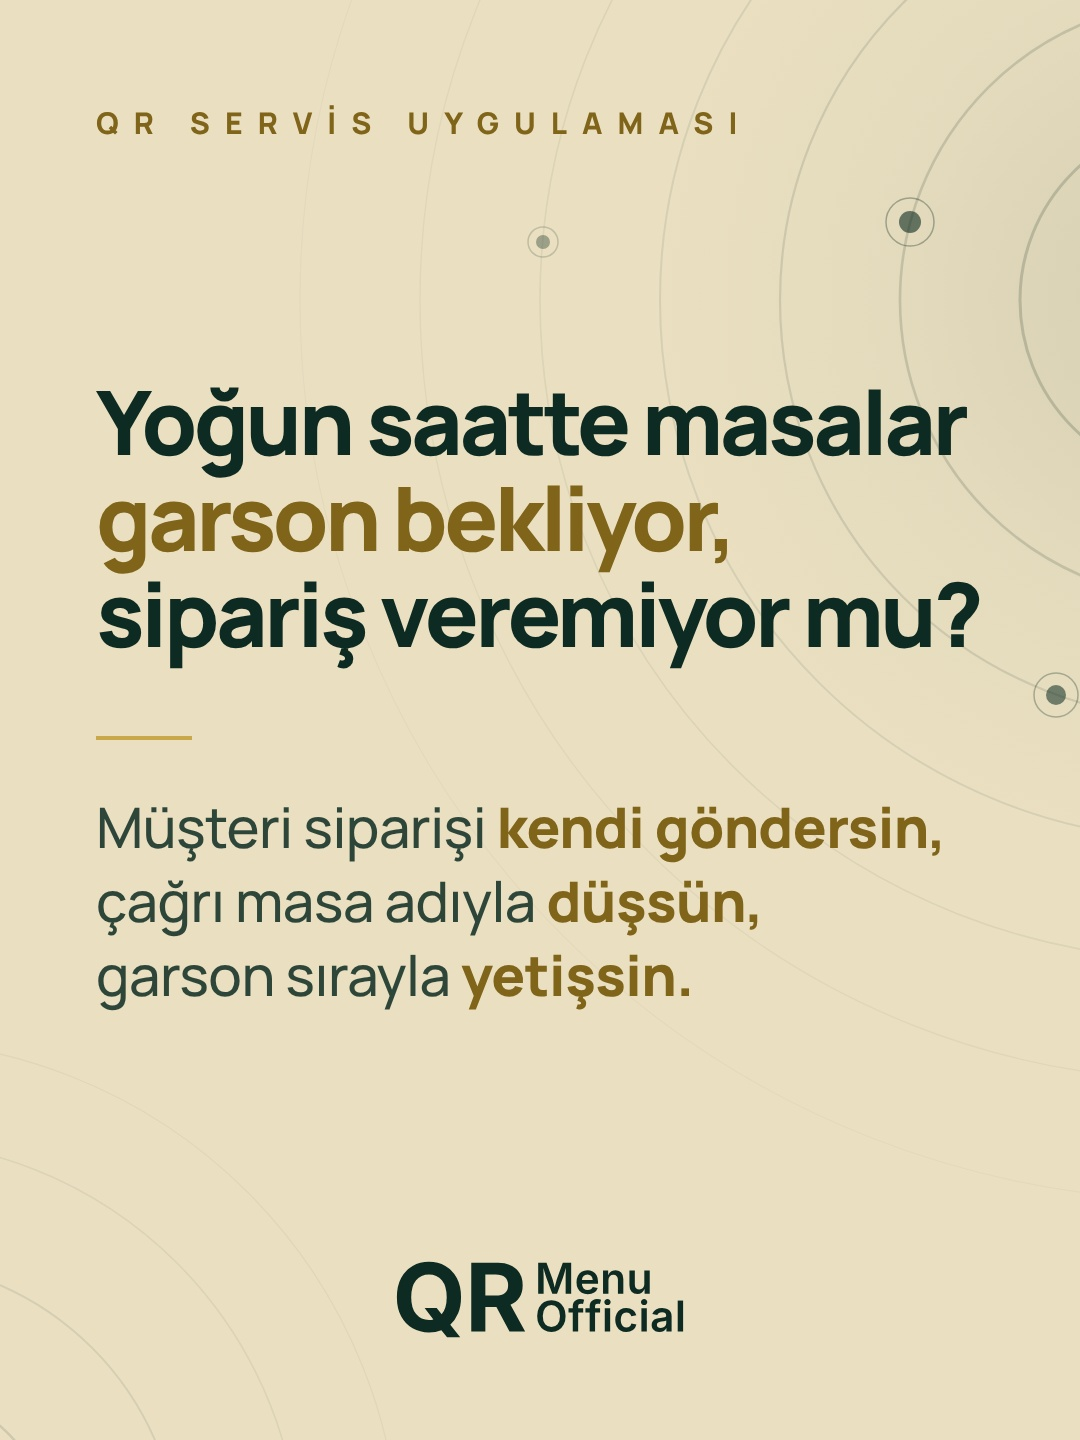
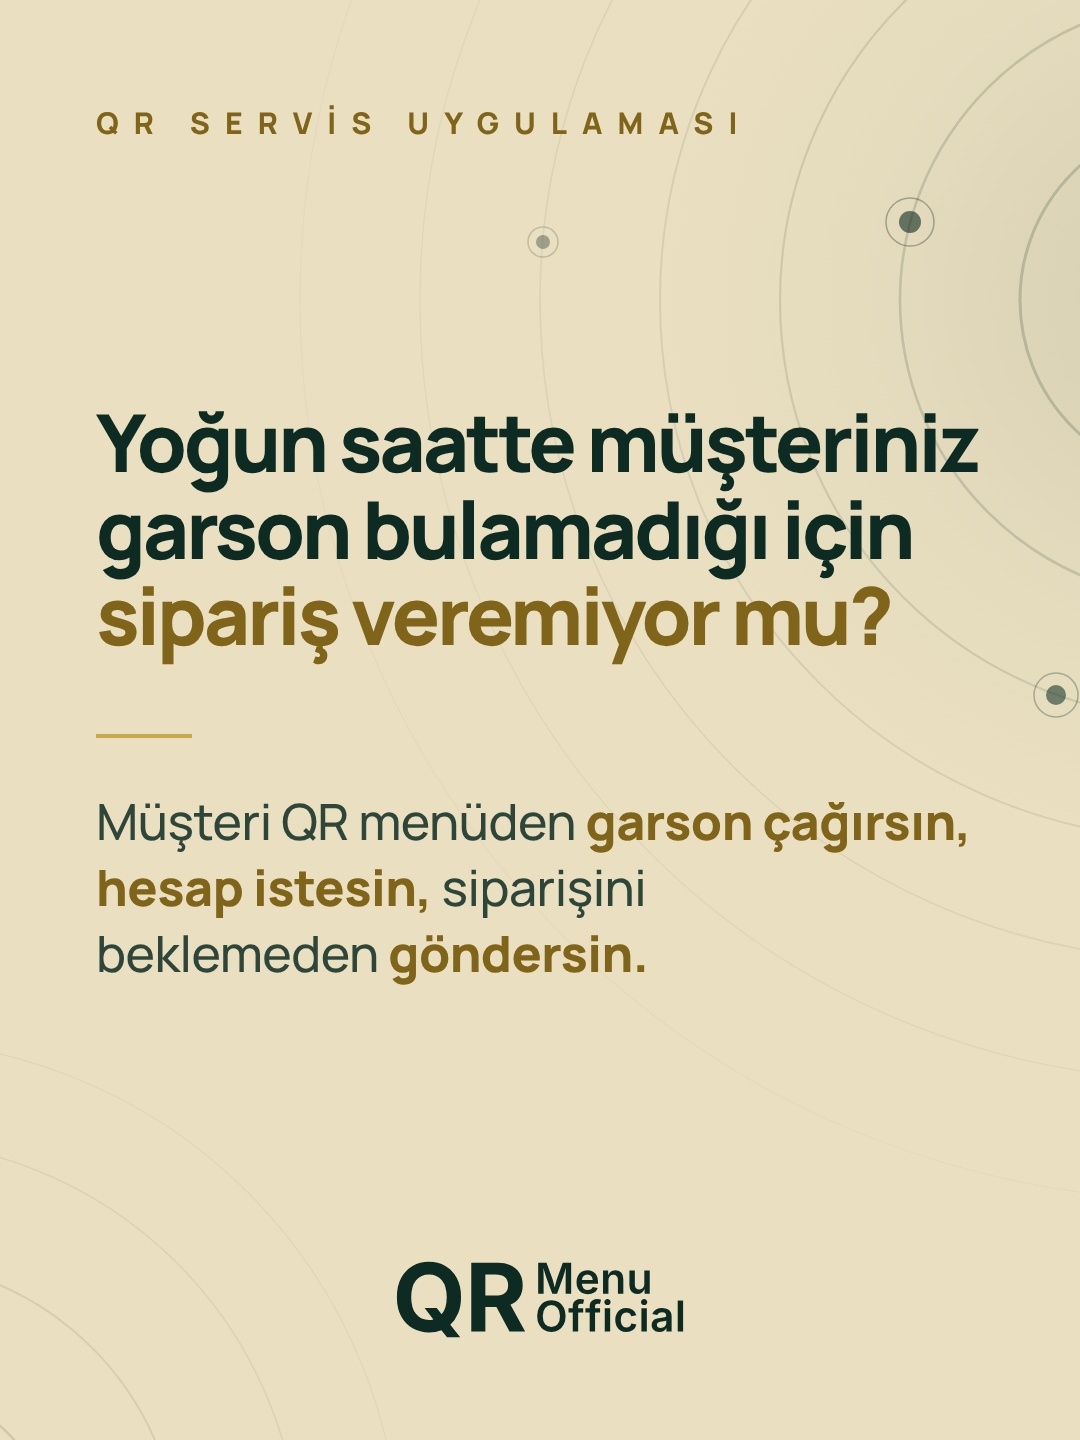
QR Servis: acı görseli yeni metin + gönderi açıklamaları
Claude-Session: https://claude.ai/code/session_01FBw9rVwrniVjyFvtgVdFXq

Changed region(s): [[0.0917, 0.25, 0.9167, 0.4688], [0.0917, 0.5625, 0.8861, 0.7188]]

diff --git a/analiz/qr-servis/caption-qr-servis.md b/analiz/qr-servis/caption-qr-servis.md
@@ -1,0 +1,52 @@
+# QR Servis — gönderi metinleri
+
+## 1. gönderi (acı görseli)
+
+Yoğun saatte müşteriniz garson bulamadığı için sipariş veremiyor mu? 🍽
+
+Garsonlar her masaya yetişemiyor, bekleyen masa sabrını kaybediyor.
+
+QR Servis ile:
+✅ Müşteri QR menüden garson çağırır
+✅ Hesap ister
+✅ Siparişini beklemeden gönderir
+🔔 Çağrı garsonun telefonuna masa adıyla, sesli bildirimle düşer
+
+Garson salonda boşuna koşturmaz, çağıran masaya gider.
+
+Nasıl çalıştığını bir sonraki gönderimizde anlattık 👉
+Demo için DM'den yazın.
+
+#qrmenü #restoran #kafe #garsonçağırma #restoranyönetimi #dijitalmenü #qrkod #restoransahibi #servis #qrmenuofficial
+
+## 2. gönderi (carousel)
+
+Garson koşturmasın, masa beklemesin. 👇 Kaydırın.
+
+Yoğun saatte garsonlarınız masalara yetişemiyorsa, sorun ekip değil, düzen.
+
+QR Servis'te müşteri QR menüden garson çağırır, hesap ister, sipariş gönderir. Çağrı garsonun telefonuna "Masa 7 garson çağırıyor" gibi masa adıyla, sesli düşer.
+
+Yönetici ekranında:
+📍 Canlı: bekleyen çağrılar ve geçen süre
+🗂 Geçmiş: kim, ne zaman onayladı; iptal nedeni
+👥 Ekip: aktif personel, vardiya ve mola takibi
+📡 GPS kontrolü açıkken vardiya yalnız işletmede başlar
+📣 Tüm ekibe ya da tek kişiye duyuru
+
+Müşteri QR menüde, ekip uygulamada.
+
+QR Servis, QR Menü Official Pro paketinde.
+Demo ve fiyat için DM'den yazın ya da bio'daki linke tıklayın.
+
+#qrmenü #restoran #kafe #garsonçağırma #garsonuygulaması #restoranyönetimi #personeltakibi #dijitalmenü #restoransahibi #qrmenuofficial
+
+## Müzik (Instagram'ın kendi kütüphanesi / Meta Sound Collection)
+- 1. gönderi: sakin, tempolu lo-fi veya akustik (aramada "lofi cafe", "upbeat acoustic").
+- 2. gönderi: modern, enerjik kurumsal ritim ("corporate upbeat", "tech groove").
+- Başkasının "Orijinal ses" kaydını veya popüler şarkı remix'lerini kullanmayın; ticari hesapta telif sorunu çıkarır.
+
+## Notlar
+- "Hesap ister" = hesap talebi; uygulama ödeme almaz, "ödeme" deme.
+- GPS kontrolü şube ayarından kapatılabilir; bu yüzden "açıkken" ifadesi korunmalı.
+- Şubeler arası veri izolasyonu iddia edilmez (Firestore kuralları şube sınırlamıyor).
